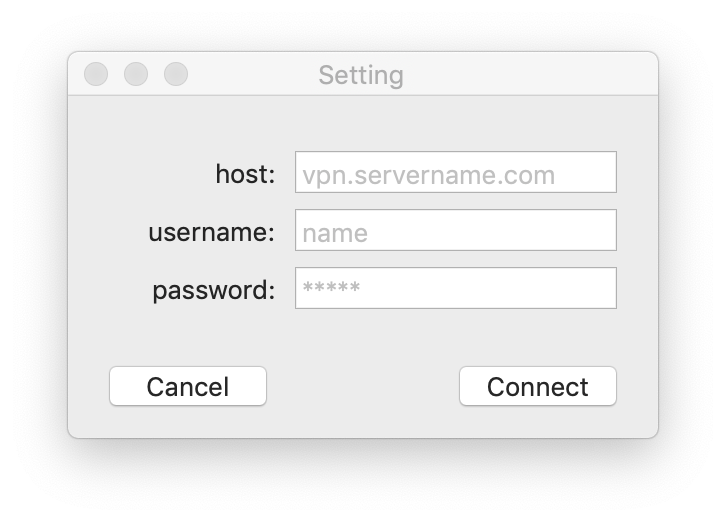
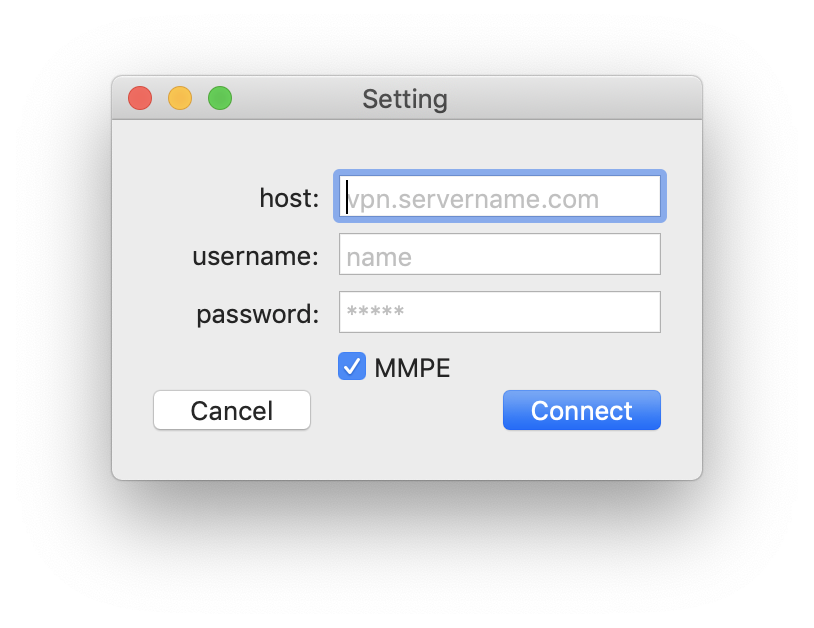
add MMPE support add screenshot revert bundle indentifier change

Changed region(s): [[0.0909, 0.2452, 0.9091, 0.8582], [0.0909, 0.092, 0.9091, 0.2146]]

diff --git a/PPTPVPN/VPNManager.m b/PPTPVPN/VPNManager.m
@@ -56,6 +56,8 @@ dispatch_block_main_async_safe(^{\
     
     NSString *storedPassword = [[NSUserDefaults standardUserDefaults] objectForKey:@"pptp.vpn.password"]?:@"";
     self.password = storedPassword.length ? [storedPassword substringFromIndex:1] : @"";
+    NSNumber *storedMmpe = [[NSUserDefaults standardUserDefaults] objectForKey:@"pptp.vpn.mmpe"]?:[NSNumber numberWithInt:1];
+    self.mmpe = storedMmpe.intValue;
     
     self.status = VPNStatusDisConnect;
 }
@@ -76,6 +78,12 @@ dispatch_block_main_async_safe(^{\
     [[NSUserDefaults standardUserDefaults] setObject:storePassword forKey:@"pptp.vpn.password"];
 }
 
+- (void)setMmpe:(int)mmpe {
+    _mmpe = mmpe;
+    NSNumber *storeMmpe = [NSNumber numberWithInt: mmpe];
+    [[NSUserDefaults standardUserDefaults] setObject:storeMmpe forKey:@"pptp.vpn.mmpe"];
+}
+
 - (void)setStatus:(VPNStatus)status {
     _status = status;
     __SafeMainQueueBlock(self.connectChangedBlock, status);
@@ -85,7 +93,7 @@ dispatch_block_main_async_safe(^{\
     if (![[NSFileManager defaultManager] fileExistsAtPath:[VPNFiler VPNFilePath]]) {
         NSError *err = [NSError errorWithDomain:NSPOSIXErrorDomain
                                            code:-2
-                                       userInfo:@{NSLocalizedDescriptionKey: @"请正确填写VPN账号"}];
+                                       userInfo:@{NSLocalizedDescriptionKey: @"Check you VPN details"}];
         self.status = VPNStatusDisConnect;
         __SafeMainQueueBlock(block, err);
         return;
@@ -186,7 +194,7 @@ dispatch_block_main_async_safe(^{\
                 if (reply == 0) {
                     __SafeMainQueueBlock(block, nil);
                 } else {
-                    NSError *erro = [self createError:[NSString stringWithFormat:@"%@执行失败",cmd]];
+                    NSError *erro = [self createError:[NSString stringWithFormat:@"%@Run failed",cmd]];
                     __SafeMainQueueBlock(block, erro);
                 }
             }];
@@ -198,11 +206,13 @@ dispatch_block_main_async_safe(^{\
 - (void)executeShellCommand:(NSString*)cmd block:(VPNConnectBlock)block {
     [self connectAndexecuteCommandBlock:^(NSError *err) {
         if (err) {
+            NSLog(@"%@",err);
             [self logErrorIfExist:err];
             __SafeMainQueueBlock(block, err);
         } else {
             [[self.helperToolConnection remoteObjectProxyWithErrorHandler:^(NSError * _Nonnull error) {
                 if (error) {
+                    NSLog(@"%@",error);
                     [self logErrorIfExist:error];
                     __SafeMainQueueBlock(block, error);
                 }
@@ -210,7 +220,7 @@ dispatch_block_main_async_safe(^{\
                 NSError *erro = nil;
                 if (errorInfo) {
                     NSLog(@"%@",errorInfo);
-                    erro = [self createError:[NSString stringWithFormat:@"%@执行失败",cmd]];
+                    erro = [self createError:[NSString stringWithFormat:@"%@Run failed",cmd]];
                     [self logErrorIfExist:erro];
                 }
                 __SafeMainQueueBlock(block, erro);
@@ -227,6 +237,7 @@ dispatch_block_main_async_safe(^{\
         } else {
             [[self.helperToolConnection remoteObjectProxyWithErrorHandler:^(NSError * _Nonnull errorx) {
                 if (errorx) {
+                    NSLog(@"output: %@", errorx);
                     [self logErrorIfExist:errorx];
                     __SafeMainQueueBlock(block, errorx, nil);
                 }

diff --git a/PPTPVPN/VPNFiler.m b/PPTPVPN/VPNFiler.m
@@ -10,8 +10,8 @@
 #import "VPNManager.h"
 
 NSString *const PPTPVPNFileDirectory = @"/etc/ppp/peers";
-NSString *const PPTPVPNConfigFileName = @"this_is_a_pptp_vpn_config_file_0";
-NSString *const PPTPVPNLogFile = @"/tmp/pptp_vpn_log.txt";;
+NSString *const PPTPVPNConfigFileName = @"pptp_vpn_config_file";
+NSString *const PPTPVPNLogFile = @"/tmp/pptp_vpn_log.txt";
 
 @implementation VPNFiler
 
@@ -30,6 +30,7 @@ NSString *const PPTPVPNLogFile = @"/tmp/pptp_vpn_log.txt";;
 + (void)writeVPNFileHost:(NSString*)remoteaddress
                     user:(NSString*)user
                 password:(NSString*)password
+                    mmpe:(int)mmpe
                    block:(void(^)(NSError *error))complete {
     
     NSString *cmd = [NSString stringWithFormat:@"sudo mkdir -p -m=rwx %@", PPTPVPNFileDirectory];
@@ -39,8 +40,9 @@ NSString *const PPTPVPNLogFile = @"/tmp/pptp_vpn_log.txt";;
             NSString *_user = [NSString stringWithFormat:@"user \"%@\"\n",user?:@""];
             NSString *_password = [NSString stringWithFormat:@"password \"%@\"\n",password?:@""];
             NSString *logfile = [NSString stringWithFormat:@"logfile %@\n", PPTPVPNLogFile];
-            NSString *vpnConfig = [NSString stringWithFormat:@"%@%@%@%@",_remoteaddress,_user,_password, logfile];
-            
+            NSString *_mmpe = mmpe ? @"require-mppe-128\n" : @"" ;
+            NSString *vpnConfig = [NSString stringWithFormat:@"%@%@%@%@%@",_remoteaddress,_user,_password, _mmpe, logfile];
+
             NSString *scriptFile = [vpnConfig stringByAppendingString:[self VPNFileOtherScript]];
         
             NSString *cmdx = [NSString stringWithFormat:@"echo \"%@\" > %@",scriptFile, [self VPNFilePath]];
@@ -66,9 +68,6 @@ receive-all\n\
 novj 0:0\n\
 ipcp-accept-local\n\
 ipcp-accept-remote\n\
-refuse-eap\n\
-refuse-pap\n\
-refuse-chap-md5\n\
 hide-password\n\
 looplocal\n\
 nodetach\n\

diff --git a/PPTPVPN/PreferencesWindow.m b/PPTPVPN/PreferencesWindow.m
@@ -16,6 +16,7 @@
 @property (weak) IBOutlet NSTextField *username;
 @property (weak) IBOutlet NSSecureTextField *password;
 @property (weak) IBOutlet NSTextField *errorTip;
+@property (weak) IBOutlet NSButton *mmpe;
 
 @end
 
@@ -23,13 +24,12 @@
 
 - (void)windowDidLoad {
     [super windowDidLoad];
-    [NSApp activateIgnoringOtherApps:YES];
-    [self.window makeKeyAndOrderFront:self];
     
     [self.host becomeFirstResponder];
     self.host.stringValue = [VPNManager shared].host;
-    self.username.stringValue = [VPNManager shared].username;;
-    self.password.stringValue = [VPNManager shared].password;;
+    self.username.stringValue = [VPNManager shared].username;
+    self.password.stringValue = [VPNManager shared].password;
+    self.mmpe.intValue = [VPNManager shared].mmpe;
 }
 
 - (IBAction)confirmClick:(id)sender {
@@ -37,8 +37,9 @@
     shared.host = self.host.stringValue;
     shared.username = self.username.stringValue;
     shared.password = self.password.stringValue;
+    shared.mmpe = self.mmpe.intValue;
     
-    [VPNFiler writeVPNFileHost:shared.host user:shared.username password:shared.password block:^(NSError *error) {      
+    [VPNFiler writeVPNFileHost:shared.host user:shared.username password:shared.password mmpe:shared.mmpe block:^(NSError *error) {
         if (error) {
             self.errorTip.hidden = NO;
             self.errorTip.stringValue = error.localizedDescription?:@"";

diff --git a/PPTPVPN/AppDelegate.m b/PPTPVPN/AppDelegate.m
@@ -94,7 +94,7 @@ static NSString *const VPNHelperToolLabel = @"com.cxy.PPTPVPN.HelpTool";
     if (!self.preferencesWindow) {
         self.preferencesWindow = [[PreferencesWindow alloc] initWithWindowNibName:@"PreferencesWindow"];
     }
-    [self.preferencesWindow showWindow:self];
+    [[self.preferencesWindow window] orderFrontRegardless];
 }
 
 - (IBAction)openLog:(id)sender {

diff --git a/PPTPVPN/VPNManager.h b/PPTPVPN/VPNManager.h
@@ -22,7 +22,7 @@ typedef void (^VPNConnectChangedBlock)(VPNStatus status);
 @property (nonatomic, copy) NSString *host;
 @property (nonatomic, copy) NSString *username;
 @property (nonatomic, copy) NSString *password;
-
+@property (nonatomic) int mmpe;
 
 @property (nonatomic, assign) VPNStatus status;
 + (instancetype)shared;

diff --git a/PPTPVPN/VPNFiler.h b/PPTPVPN/VPNFiler.h
@@ -23,5 +23,6 @@ extern NSString *const PPTPVPNLogFile;
 + (void)writeVPNFileHost:(NSString*)remoteaddress
                     user:(NSString*)user
                 password:(NSString*)password
+                    mmpe:(int)mmpe
                    block:(void(^)(NSError *error))complete;
 @end
